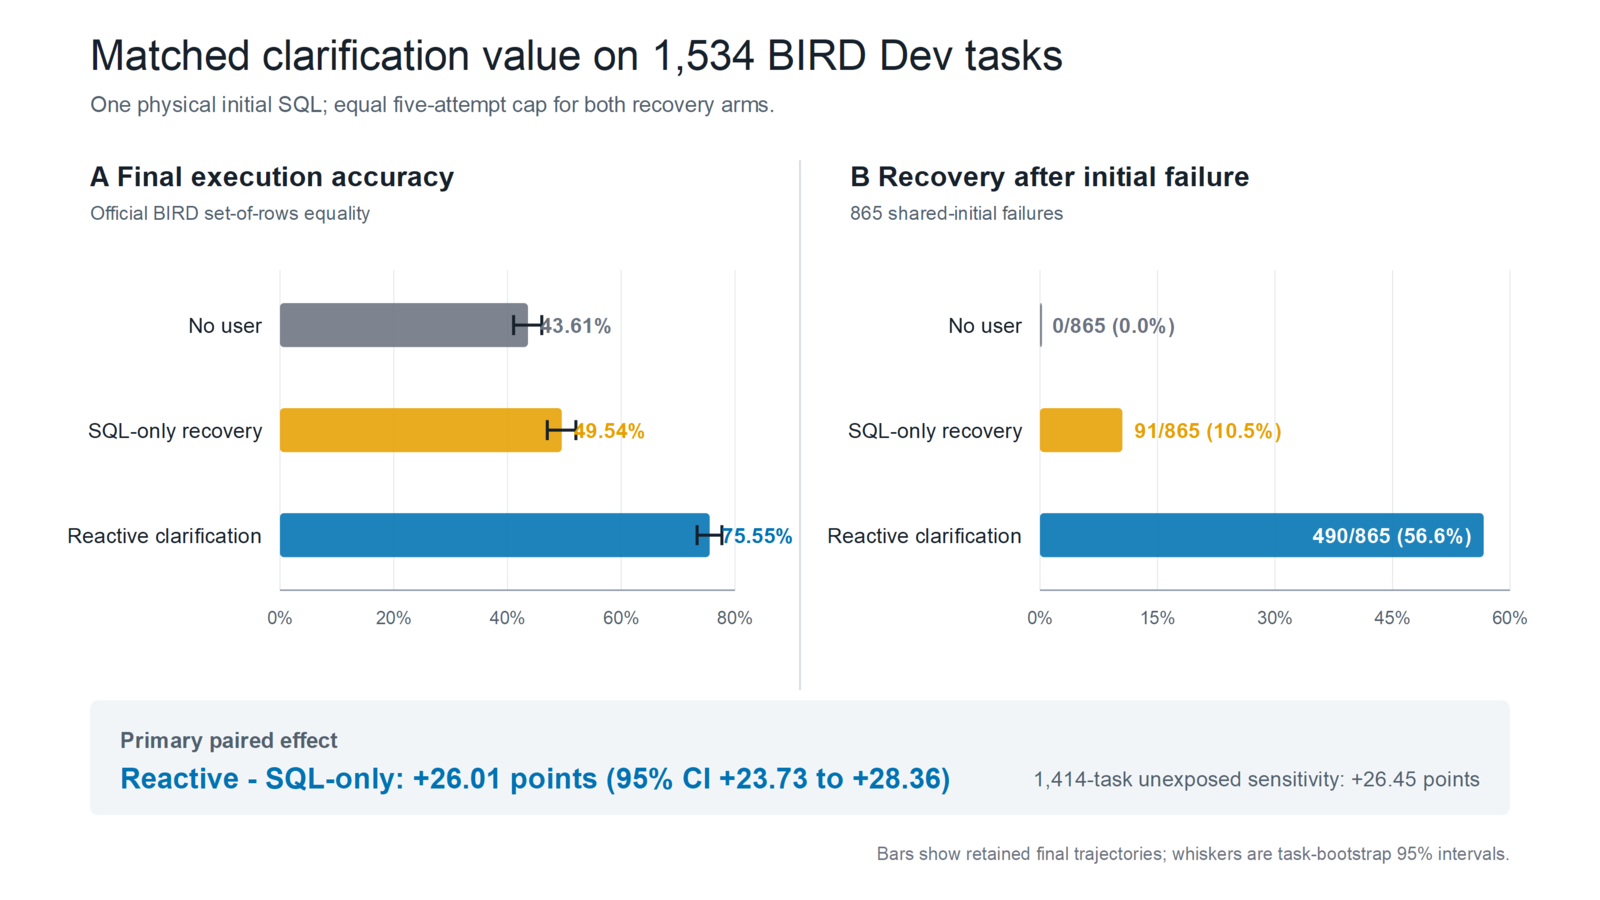
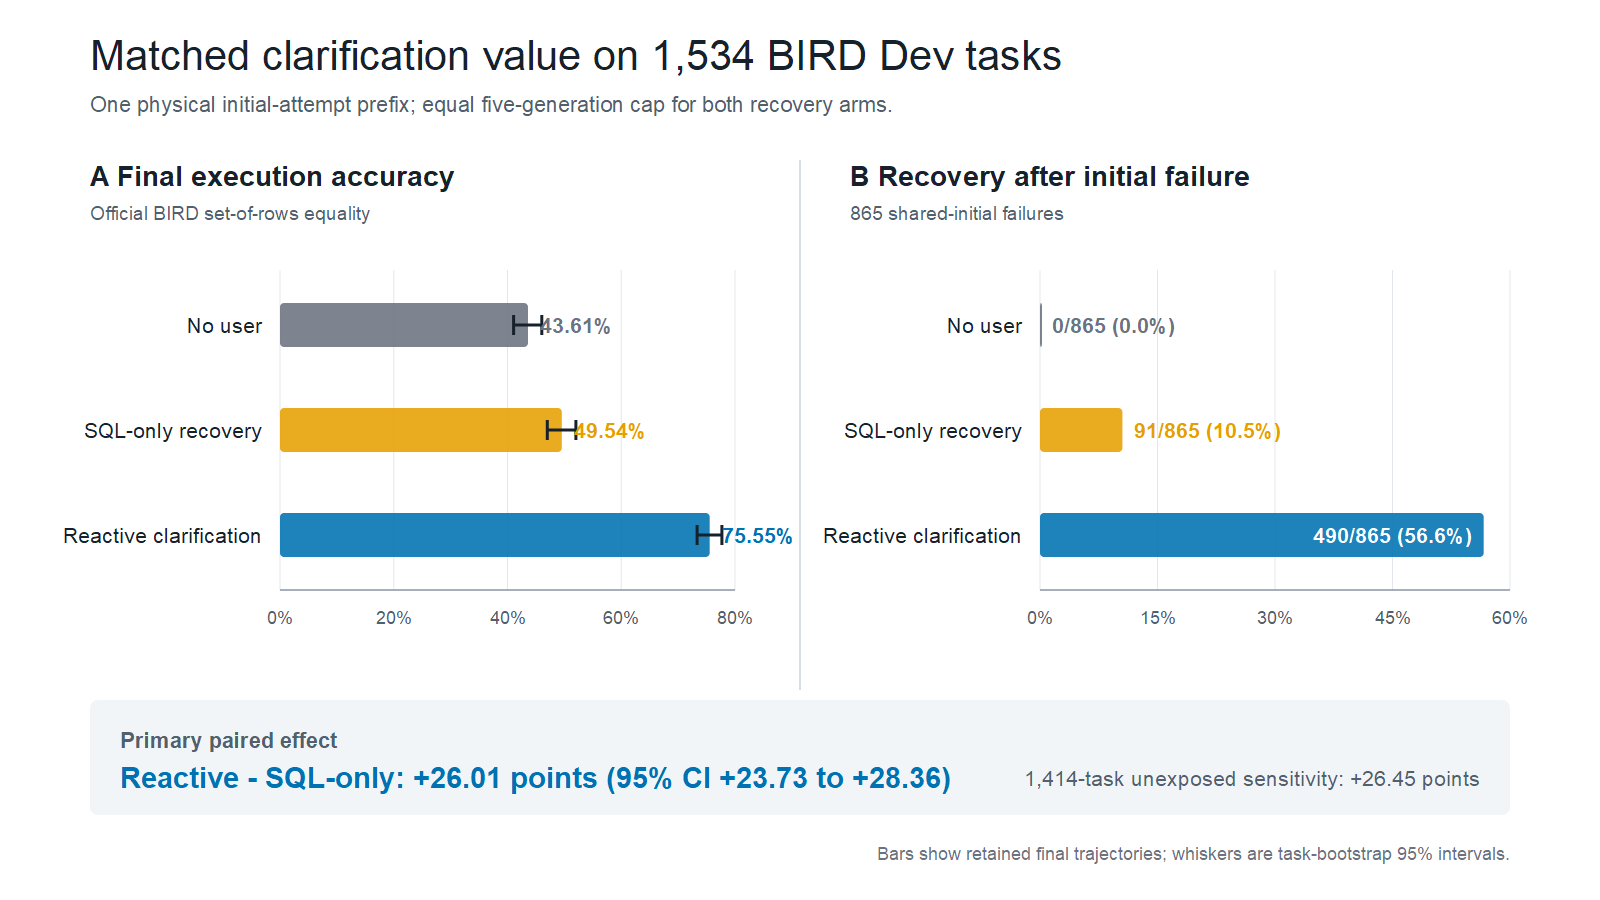
experiment: tighten clarification audit artifacts

diff --git a/experiment/interaction/plot_bird_dev_clarification_value.py b/experiment/interaction/plot_bird_dev_clarification_value.py
@@ -26,6 +26,57 @@ COLORS = {
 }
 
 
+def _figure_data(source: dict[str, Any]) -> dict[str, Any]:
+    """Normalize a frozen aggregate or private read-only analysis for plotting."""
+
+    if source.get("artifact") == "bird-dev-clarification-value-v1-full-result":
+        validity = source["validity"]
+        primary_source = source["primary_contrast"]
+        sensitivity_source = source["development_unexposed_sensitivity"]
+        return {
+            "tasks": int(validity["tasks"]),
+            "audit_passed": bool(validity["mechanical_audit_passed"]),
+            "initial_failures": int(
+                validity["initial_failures_available_for_recovery"]
+            ),
+            "arms": source["arms"],
+            "primary": {
+                "difference_percentage_points": float(
+                    primary_source["difference_percentage_points_all_tasks"]
+                ),
+                "task_bootstrap_95_ci_percentage_points": list(
+                    primary_source["task_bootstrap_95_ci_percentage_points"]
+                ),
+            },
+            "sensitivity": {
+                "tasks": int(sensitivity_source["tasks"]),
+                "difference_percentage_points": float(
+                    sensitivity_source[
+                        "reactive_minus_sql_only_percentage_points"
+                    ]
+                ),
+            },
+        }
+
+    return {
+        "tasks": int(source.get("run", {}).get("tasks", 0)),
+        "audit_passed": bool(source.get("mechanical_audit", {}).get("passed")),
+        "initial_failures": int(
+            source.get("initial_sql", {}).get("failures_available_for_recovery", 0)
+        ),
+        "arms": source["arms"],
+        "primary": source["paired_comparisons_all_tasks"][
+            "reactive_minus_sql_only"
+        ],
+        "sensitivity": {
+            "tasks": int(source["development_exposure_sensitivity"]["tasks"]),
+            **source["development_exposure_sensitivity"][
+                "paired_comparisons_all_tasks"
+            ]["reactive_minus_sql_only"],
+        },
+    }
+
+
 def _text(
     x: float,
     y: float,
@@ -73,9 +124,10 @@ def _axis(
 def render(analysis: dict[str, Any]) -> str:
     if analysis.get("protocol") != "bird-dev-clarification-value-v1":
         raise ValueError("Unexpected clarification-value protocol")
-    if int(analysis.get("run", {}).get("tasks", 0)) != 1534:
+    data = _figure_data(analysis)
+    if data["tasks"] != 1534:
         raise ValueError("Expected the complete 1,534-task analysis")
-    if not analysis.get("mechanical_audit", {}).get("passed"):
+    if not data["audit_passed"]:
         raise ValueError("Mechanical audit must pass before plotting")
 
     width, height = 1600, 900
@@ -83,13 +135,19 @@ def render(analysis: dict[str, Any]) -> str:
         f'<svg xmlns="http://www.w3.org/2000/svg" width="{width}" height="{height}" '
         f'viewBox="0 0 {width} {height}" role="img">',
         "<title>Matched clarification value on BIRD Dev</title>",
-        "<desc>Execution accuracy and recovery after the shared initial SQL for three matched arms.</desc>",
+        "<desc>Execution accuracy and recovery after the shared initial-attempt prefix for three matched arms.</desc>",
         f'<rect width="{width}" height="{height}" fill="#FFFFFF"/>',
-        _text(90, 70, "Matched clarification value on 1,534 BIRD Dev tasks", size=42, weight=500),
+        _text(
+            90,
+            70,
+            f"Matched clarification value on {data['tasks']:,} BIRD Dev tasks",
+            size=42,
+            weight=500,
+        ),
         _text(
             90,
             112,
-            "One physical initial SQL; equal five-attempt cap for both recovery arms.",
+            "One physical initial-attempt prefix; equal five-generation cap for both recovery arms.",
             size=22,
             fill="#52606D",
         ),
@@ -116,7 +174,7 @@ def render(analysis: dict[str, Any]) -> str:
     )
     for index, arm in enumerate(ARMS):
         y = 325 + index * 105
-        summary = analysis["arms"][arm]
+        summary = data["arms"][arm]
         value = 100 * float(summary["official_ex"])
         lower, upper = [100 * float(item) for item in summary["task_bootstrap_95_ci"]]
         value_x = left_a + (right_a - left_a) * value / 80
@@ -138,10 +196,19 @@ def render(analysis: dict[str, Any]) -> str:
         )
 
     # Panel B: recoveries among the shared-initial failures.
+    initial_failures = data["initial_failures"]
+    if initial_failures <= 0:
+        raise ValueError("Expected at least one shared-initial failure")
     parts.extend(
         [
             _text(850, 186, "B  Recovery after initial failure", size=28, weight=600),
-            _text(850, 220, "865 shared-initial failures", size=19, fill="#52606D"),
+            _text(
+                850,
+                220,
+                f"{initial_failures:,} shared-initial failures",
+                size=19,
+                fill="#52606D",
+            ),
         ]
     )
     left_b, right_b, top_b, bottom_b = 1040.0, 1510.0, 270.0, 590.0
@@ -155,15 +222,17 @@ def render(analysis: dict[str, Any]) -> str:
         ticks=(0, 15, 30, 45, 60),
         suffix="%",
     )
+    initial_successes = int(data["arms"]["no_user"]["official_successes"])
     recoveries = {
-        "no_user": 0,
-        "sql_only_recovery": 91,
-        "reactive_clarification": 490,
+        arm: int(data["arms"][arm]["official_successes"]) - initial_successes
+        for arm in ARMS
     }
     for index, arm in enumerate(ARMS):
         y = 325 + index * 105
         count = recoveries[arm]
-        rate = 100 * count / 865
+        if not 0 <= count <= initial_failures:
+            raise ValueError(f"Invalid recovery count for {arm}: {count}")
+        rate = 100 * count / initial_failures
         value_x = left_b + (right_b - left_b) * rate / 60
         label_inside = rate >= 45
         label_x = value_x - 12 if label_inside else value_x + 12
@@ -175,7 +244,7 @@ def render(analysis: dict[str, Any]) -> str:
                 _text(
                     label_x,
                     y + 8,
-                    f"{count}/865 ({rate:.1f}%)",
+                    f"{count}/{initial_failures} ({rate:.1f}%)",
                     size=21,
                     weight=600,
                     anchor="end" if label_inside else "start",
@@ -184,10 +253,8 @@ def render(analysis: dict[str, Any]) -> str:
             ]
         )
 
-    primary = analysis["paired_comparisons_all_tasks"]["reactive_minus_sql_only"]
-    sensitivity = analysis["development_exposure_sensitivity"][
-        "paired_comparisons_all_tasks"
-    ]["reactive_minus_sql_only"]
+    primary = data["primary"]
+    sensitivity = data["sensitivity"]
     lower, upper = primary["task_bootstrap_95_ci_percentage_points"]
     parts.extend(
         [
@@ -205,7 +272,8 @@ def render(analysis: dict[str, Any]) -> str:
             _text(
                 1480,
                 786,
-                f"1,414-task unexposed sensitivity: +{sensitivity['difference_percentage_points']:.2f} points",
+                f"{sensitivity['tasks']:,}-task unexposed sensitivity: "
+                f"+{sensitivity['difference_percentage_points']:.2f} points",
                 size=21,
                 anchor="end",
                 fill="#52606D",

diff --git a/experiment/interaction/tests/test_bird_dev_clarification_value.py b/experiment/interaction/tests/test_bird_dev_clarification_value.py
@@ -25,6 +25,9 @@ from interaction.analyze_bird_dev_clarification_value_public import (
 from interaction.export_bird_dev_clarification_value_public import (
     build_public_projection,
 )
+from interaction.plot_bird_dev_clarification_value import (
+    render as render_clarification_value_figure,
+)
 from interaction.bird_dev_matched import (
     BirdDevPrivateEvaluator,
     build_schema_only_context,
@@ -453,6 +456,50 @@ class ClarificationValueControllerTest(unittest.TestCase):
         )
         self.assertEqual(comparison["difference_percentage_points"], 100.0)
         self.assertEqual(comparison["candidate_only_successes"], 1)
+
+    def test_primary_figure_sources_recovery_counts_from_result(self) -> None:
+        result = {
+            "artifact": "bird-dev-clarification-value-v1-full-result",
+            "protocol": PROTOCOL_VERSION,
+            "validity": {
+                "tasks": 1534,
+                "mechanical_audit_passed": True,
+                "initial_failures_available_for_recovery": 900,
+            },
+            "arms": {
+                "no_user": {
+                    "official_successes": 600,
+                    "official_ex": 600 / 1534,
+                    "task_bootstrap_95_ci": [0.36, 0.42],
+                },
+                "sql_only_recovery": {
+                    "official_successes": 700,
+                    "official_ex": 700 / 1534,
+                    "task_bootstrap_95_ci": [0.42, 0.49],
+                },
+                "reactive_clarification": {
+                    "official_successes": 1100,
+                    "official_ex": 1100 / 1534,
+                    "task_bootstrap_95_ci": [0.69, 0.75],
+                },
+            },
+            "primary_contrast": {
+                "difference_percentage_points_all_tasks": 26.08,
+                "task_bootstrap_95_ci_percentage_points": [23.0, 29.0],
+            },
+            "development_unexposed_sensitivity": {
+                "tasks": 1400,
+                "reactive_minus_sql_only_percentage_points": 26.5,
+            },
+        }
+
+        svg = render_clarification_value_figure(result)
+
+        self.assertIn("900 shared-initial failures", svg)
+        self.assertIn("100/900 (11.1%)", svg)
+        self.assertIn("500/900 (55.6%)", svg)
+        self.assertIn("1,400-task unexposed sensitivity", svg)
+        self.assertNotIn("865 shared-initial failures", svg)
 
     def test_public_projection_replays_outcomes_without_private_fields(self) -> None:
         records = []

diff --git a/experiment/notes/bird-dev-clarification-value-full-protocol-2026-08-26.md b/experiment/notes/bird-dev-clarification-value-full-protocol-2026-08-26.md
@@ -28,10 +28,13 @@ including any bounded invalid-SQL repair:
 | Reactive clarification | SRA question, gold-conditioned simulated reply, then SQL regeneration | 5 normal generations, 4 questions |
 
 The two recovery arms use the same normal-generation cap and one invalid-SQL
-repair allowance per normal generation. Their execution order is deterministic SHA-256
-parity by question ID. The policy sees only the natural-language question and
-`CREATE TABLE` schema. BIRD evidence, values, descriptions, and gold SQL remain
-hidden from it.
+repair allowance per normal generation. Their execution order is deterministic
+SHA-256 parity by question ID. The base SQL task context contains only the
+natural-language question and `CREATE TABLE` schema. Recovery prompts
+additionally contain rejected-SQL history; an invalid-SQL repair receives the
+corresponding SQLite error text; and the reactive arm receives its prior
+clarification questions and answers. BIRD evidence, values, descriptions, gold
+SQL, and result rows remain hidden from the policy.
 
 ## Population and analysis
 
